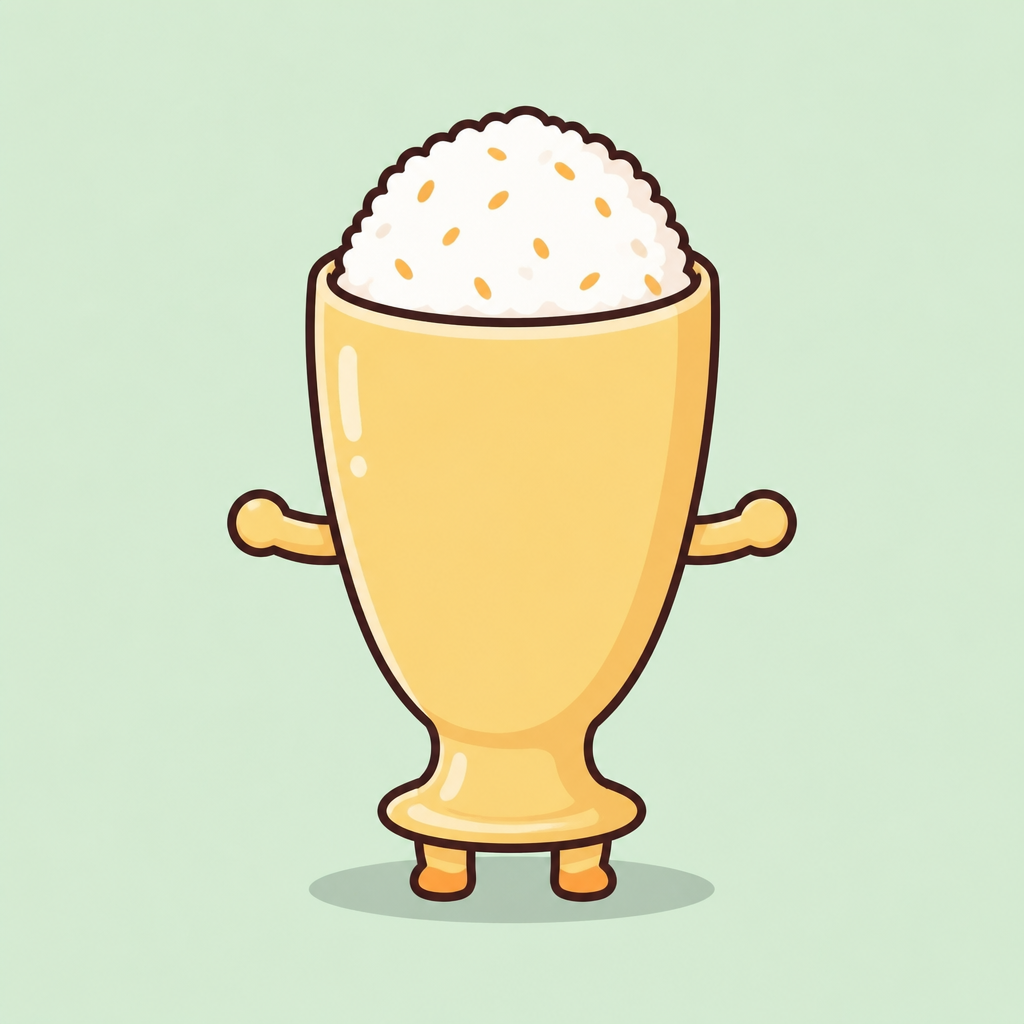
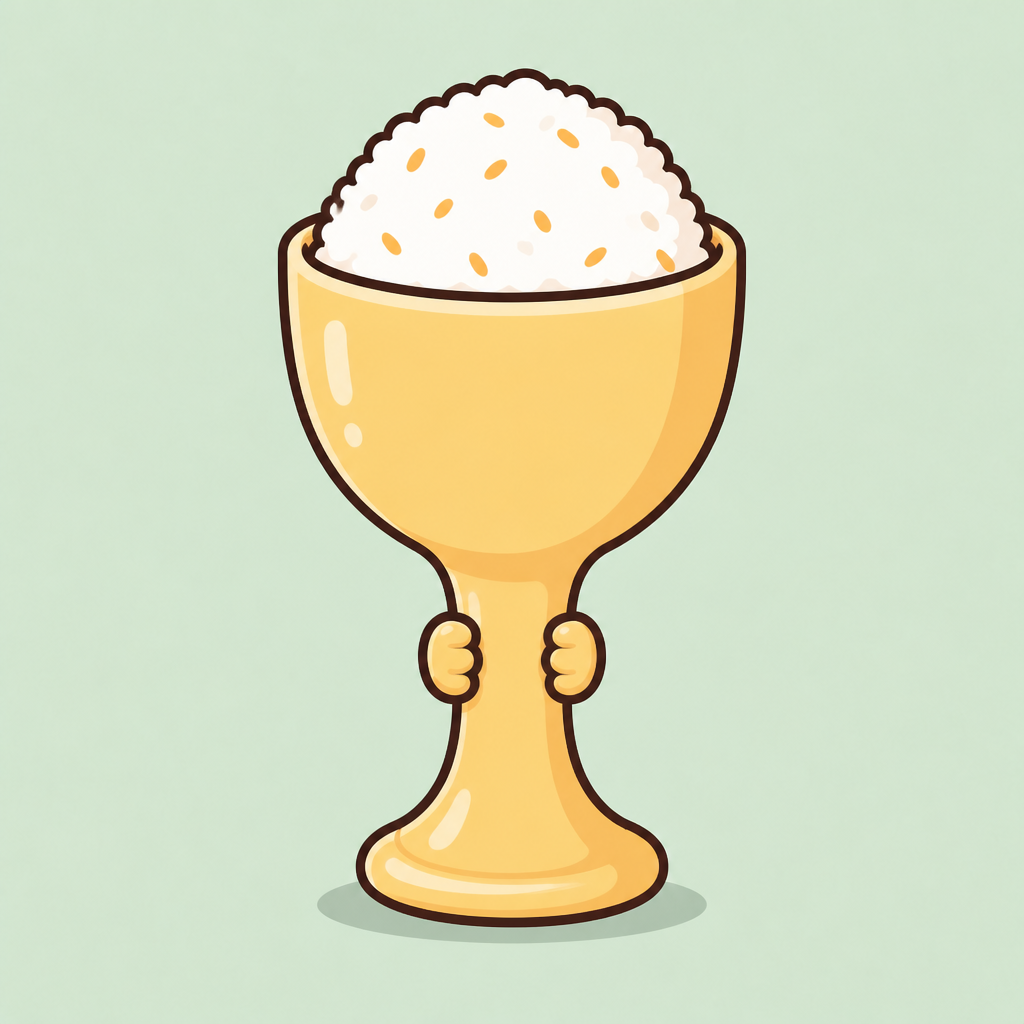
Give 碗仔 a clear neck to separate head and body
Replace base with goblet silhouette: rice cup, narrow neck with
hands, pedestal feet. Retune poke hotspots; still faceless + decor.

Changed region(s): [[0.2188, 0.0625, 0.7812, 0.9375]]

diff --git a/frontend/src/components/body-scan-figure.tsx b/frontend/src/components/body-scan-figure.tsx
@@ -71,17 +71,17 @@ const CHIP_DECOR: Partial<Record<BodyChipKey, { emoji: string; spot: Spot }>> = 
   floaty: { emoji: '✨', spot: 'auraR' },
 };
 
-/** Tuned for tall slender goblet proportions. */
+/** Tuned for goblet with clear neck · head cup / body / hands on neck / base feet. */
 const SPOT_STYLE: Record<Spot, object> = {
-  head: { top: '4%', alignSelf: 'center' },
-  face: { top: '28%', alignSelf: 'center' },
-  chest: { top: '36%', alignSelf: 'center' },
-  belly: { top: '52%', alignSelf: 'center' },
-  leftHand: { top: '40%', left: '0%' },
-  rightHand: { top: '40%', right: '0%' },
+  head: { top: '2%', alignSelf: 'center' },
+  face: { top: '22%', alignSelf: 'center' },
+  chest: { top: '30%', alignSelf: 'center' },
+  belly: { top: '42%', alignSelf: 'center' },
+  leftHand: { top: '52%', left: '8%' },
+  rightHand: { top: '52%', right: '8%' },
   feet: { bottom: '2%', alignSelf: 'center' },
-  auraL: { top: '34%', left: '2%' },
-  auraR: { top: '34%', right: '2%' },
+  auraL: { top: '28%', left: '4%' },
+  auraR: { top: '28%', right: '4%' },
 };
 
 const REGION_COLORS: Record<BodyRegionKey, string> = {
@@ -108,7 +108,7 @@ const STAGE_BG: Record<WanjaiMood, string> = {
   fiery: '#FCE8E2',
 };
 
-/** Tall bowl · vertical stack of poke zones. */
+/** Goblet · rice head, cup body, hands on neck, pedestal feet. */
 const HOTSPOTS: {
   region: BodyRegionKey;
   top: `${number}%`;
@@ -116,12 +116,12 @@ const HOTSPOTS: {
   width: `${number}%`;
   height: `${number}%`;
 }[] = [
-  { region: 'head', top: '6%', left: '30%', width: '40%', height: '16%' },
-  { region: 'chest', top: '24%', left: '30%', width: '40%', height: '20%' },
-  { region: 'belly', top: '44%', left: '30%', width: '40%', height: '18%' },
-  { region: 'hands', top: '32%', left: '6%', width: '20%', height: '22%' },
-  { region: 'hands', top: '32%', left: '74%', width: '20%', height: '22%' },
-  { region: 'whole', top: '68%', left: '32%', width: '36%', height: '24%' },
+  { region: 'head', top: '4%', left: '28%', width: '44%', height: '18%' },
+  { region: 'chest', top: '22%', left: '28%', width: '44%', height: '18%' },
+  { region: 'belly', top: '40%', left: '30%', width: '40%', height: '12%' },
+  { region: 'hands', top: '48%', left: '10%', width: '22%', height: '16%' },
+  { region: 'hands', top: '48%', left: '68%', width: '22%', height: '16%' },
+  { region: 'whole', top: '66%', left: '30%', width: '40%', height: '26%' },
 ];
 
 function FloatingDecor({ emoji, delay }: { emoji: string; delay: number }) {
@@ -476,25 +476,25 @@ const styles = StyleSheet.create({
   },
   tremble: {
     position: 'absolute',
-    top: '42%',
+    top: '50%',
     fontSize: 18,
     color: COLORS.textPrimary,
     opacity: 0.55,
     fontWeight: '800',
   },
-  trembleL: { left: 8 },
-  trembleR: { right: 8 },
+  trembleL: { left: 14 },
+  trembleR: { right: 14 },
   sweatWrap: {
     ...StyleSheet.absoluteFillObject,
     zIndex: 3,
   },
   sweat: {
     position: 'absolute',
-    top: '14%',
+    top: '10%',
     fontSize: 20,
   },
-  sweatL: { left: 36 },
-  sweatR: { right: 36 },
+  sweatL: { left: 40 },
+  sweatR: { right: 40 },
   starWrap: {
     ...StyleSheet.absoluteFillObject,
     zIndex: 3,

diff --git a/frontend/app/ritual/body.tsx b/frontend/app/ritual/body.tsx
@@ -54,11 +54,11 @@ const GAG_LINES: Partial<Record<BodyChipKey, string>> = {
 };
 
 const REGION_PROMPTS: Record<BodyRegionKey, string> = {
-  head: '戳米堆 · 頭同面而家點?',
-  chest: '戳胸口 · 心跳定發熱?',
-  belly: '戳肚仔 · 有蝴蝶定石頭?',
-  hands: '戳小手 · 出汗定捏拳?',
-  whole: '戳腳腳 · 想跳定想縮?',
+  head: '戳米堆 · 頭而家點?',
+  chest: '戳碗身 · 胸口有感覺?',
+  belly: '戳下半 · 肚仔點?',
+  hands: '戳頸邊小手 · 出汗定捏緊?',
+  whole: '戳底座腳 · 想跳定想縮?',
 };
 
 export default function RitualBodyScreen() {
